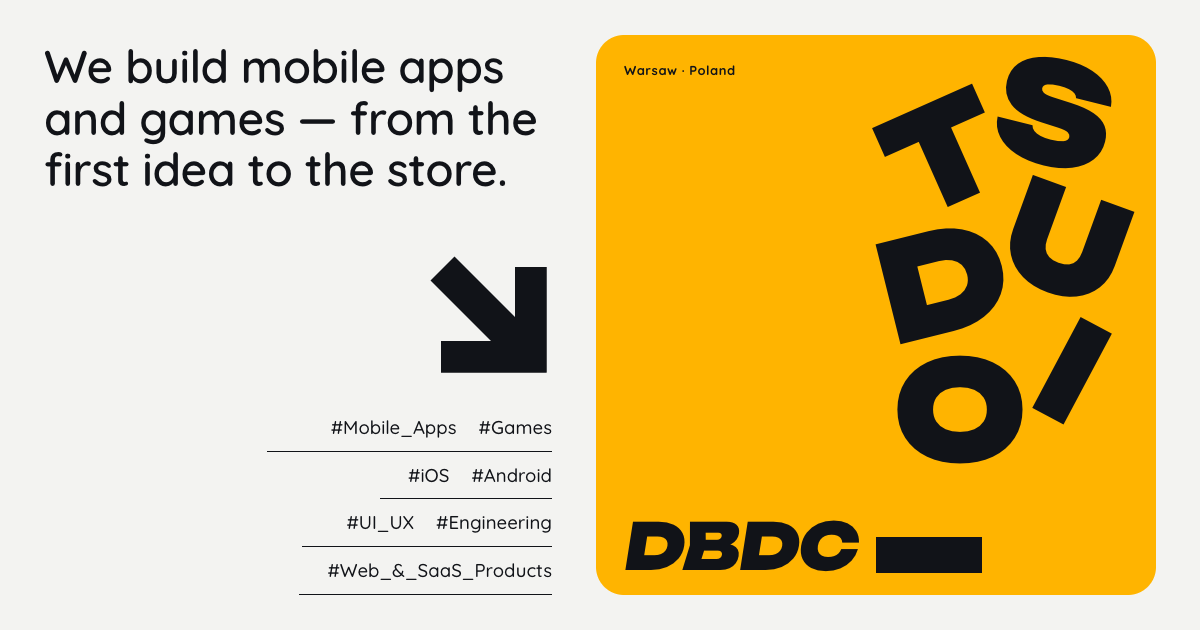
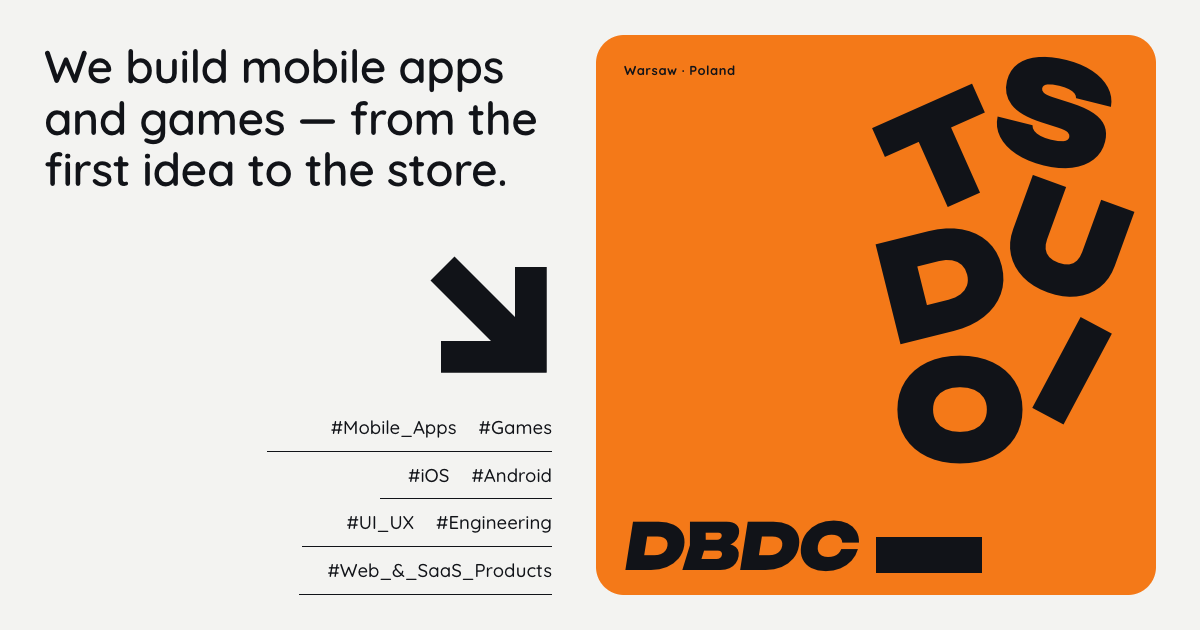
style(site): zmiana koloru akcentu na #f47918

diff --git a/src/styles/main.css b/src/styles/main.css
@@ -4,7 +4,7 @@
   --ink-2: #2a2c31;
   --muted: #55575c;
   --line: #c4c4bf;
-  --accent: #ffb400;
+  --accent: #f47918;
   --white: #ffffff;
   --r-xl: 28px;
   --r-lg: 22px;
@@ -345,7 +345,7 @@ a.round:hover { background: var(--accent); color: var(--ink); transform: transla
   border-radius: var(--r-lg);
   color: var(--white);
   background:
-    radial-gradient(90% 60% at 100% 100%, rgba(255, 180, 0, 0.32), transparent 62%),
+    radial-gradient(90% 60% at 100% 100%, rgba(244, 121, 24, 0.32), transparent 62%),
     linear-gradient(160deg, #3b3d42 0%, #1b1c20 46%, #0c0d10 100%);
   overflow: hidden;
   isolation: isolate;
